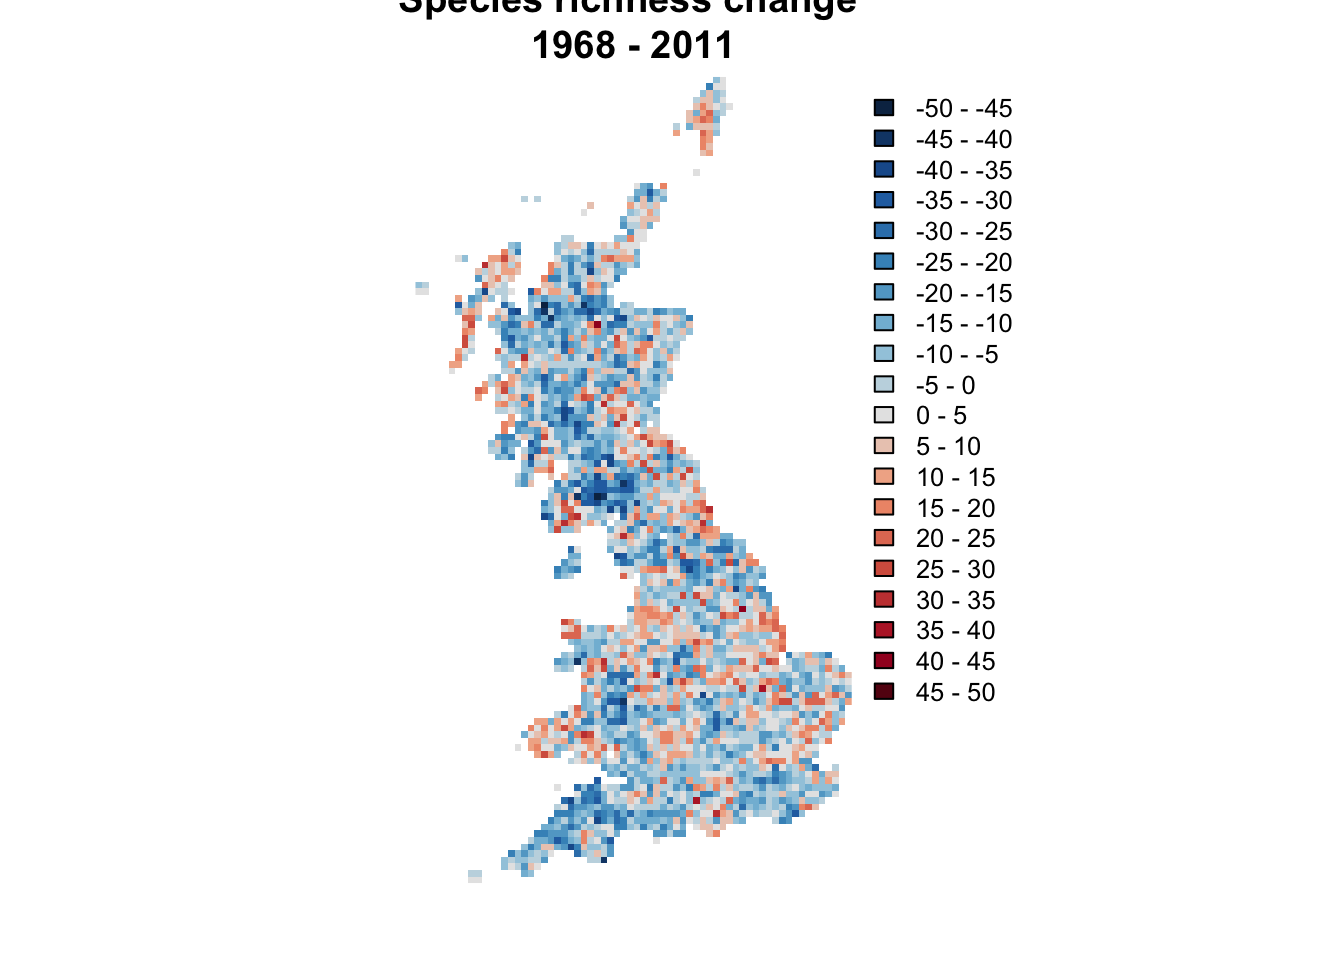
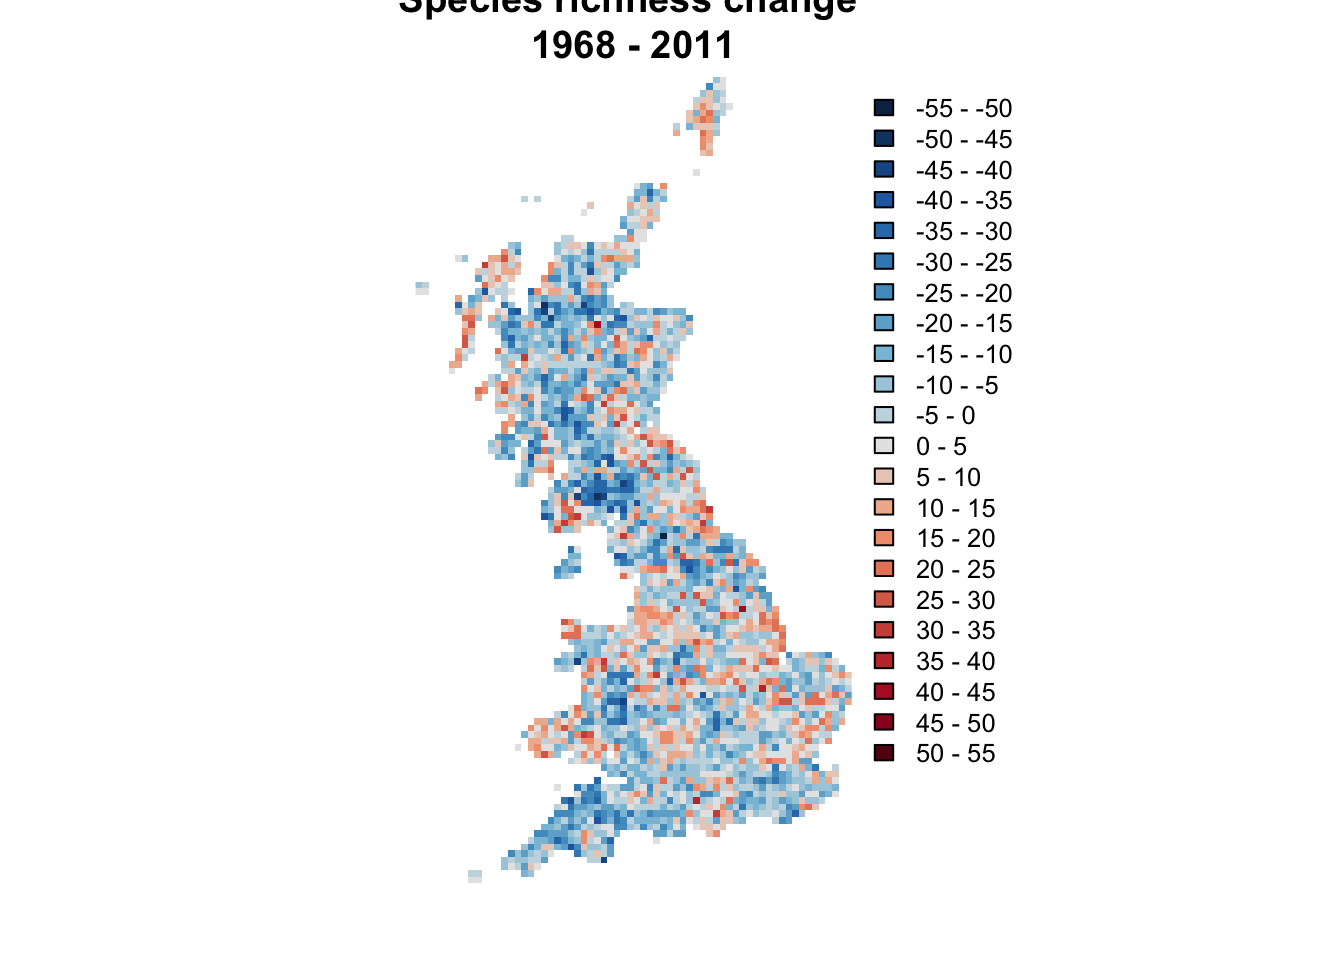
adjust colour palette for richness difference maps

diff --git a/a6_BiodivChanges.html b/a6_BiodivChanges.html
@@ -583,12 +583,24 @@ number="2">
 richness changes</h1>
 <p>Next, we plot the species richness differences. For this, we define
 an own colour palette.</p>
-<pre class="r"><code># Define axis for colour breaks
-brks.diff &lt;- seq(-50,50,by=5)
+<pre class="r"><code># Let&#39;s first check what is the magnitude of richness changes that we are expecting:
+summary(subset(bird_dist,period==&#39;2008-11&#39;)[,c(&#39;EASTING&#39;,&#39;NORTHING&#39;,&#39;richness&#39;)] - subset(bird_dist,period==&#39;1968-72&#39;)[,c(&#39;EASTING&#39;,&#39;NORTHING&#39;,&#39;richness&#39;)])</code></pre>
+<pre><code>##     EASTING     NORTHING    richness      
+##  Min.   :0   Min.   :0   Min.   :-52.000  
+##  1st Qu.:0   1st Qu.:0   1st Qu.:-13.000  
+##  Median :0   Median :0   Median : -4.000  
+##  Mean   :0   Mean   :0   Mean   : -3.957  
+##  3rd Qu.:0   3rd Qu.:0   3rd Qu.:  5.000  
+##  Max.   :0   Max.   :0   Max.   : 44.000</code></pre>
+<pre class="r"><code># Define axis for colour breaks - this should be symmetric around zero and encompass the magnitude of species richness changes
+brks.diff &lt;- seq(-55,55,by=5)
 
-# Define colour palette
-cols.diff = colorRampPalette(
-  rev(c(&#39;#650A13&#39;,&#39;#b2182b&#39;,&#39;#d6604d&#39;,&#39;#f4a582&#39;,&#39;grey90&#39;,&#39;#92c5de&#39;,&#39;#4393c3&#39;,&#39;#2166ac&#39;,&#39;#0B2F52&#39;)))(21) # red-blue diverging</code></pre>
+# Define red-blue diverging colour palette
+cols_diff_palette &lt;- colorRampPalette(
+  rev(c(&#39;#650A13&#39;,&#39;#b2182b&#39;,&#39;#d6604d&#39;,&#39;#f4a582&#39;,&#39;grey90&#39;,&#39;#92c5de&#39;,&#39;#4393c3&#39;,&#39;#2166ac&#39;,&#39;#0B2F52&#39;)))
+
+# Now we define a vector of colours from our new palette that holds as many colours as we have break points above
+cols.diff = cols_diff_palette(length(brks.diff)) </code></pre>
 <p>Now, we produce a raster that shows the difference in species
 richness between two periods and call this <code>change_richness</code>.
 Then we use our new colour palette for mapping the differences:</p>
